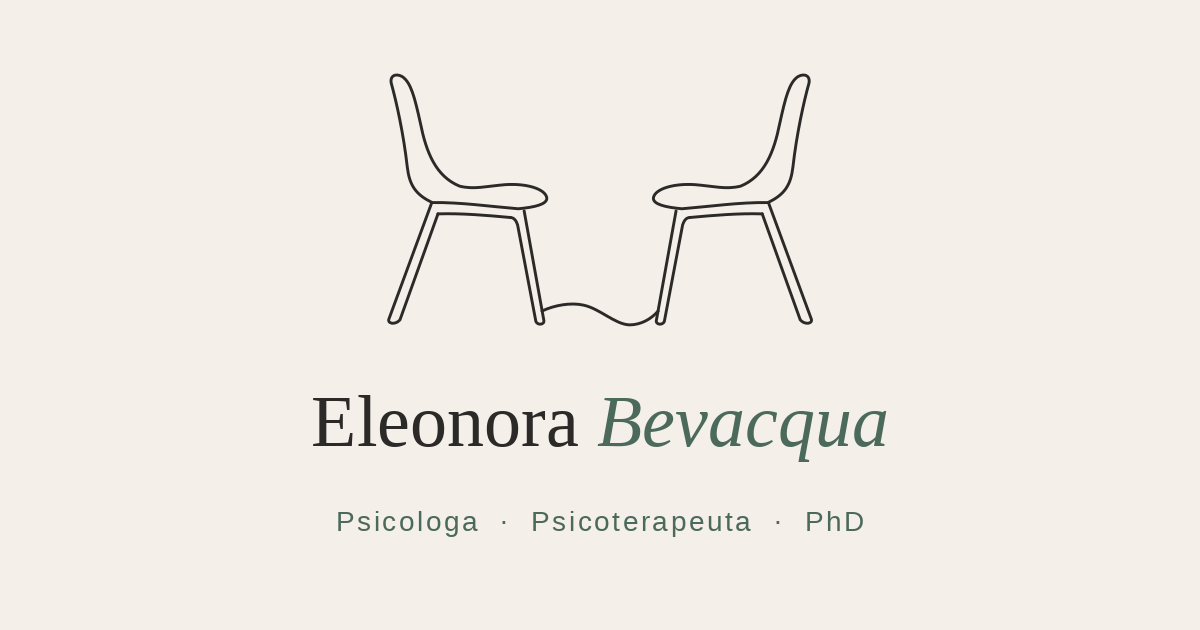
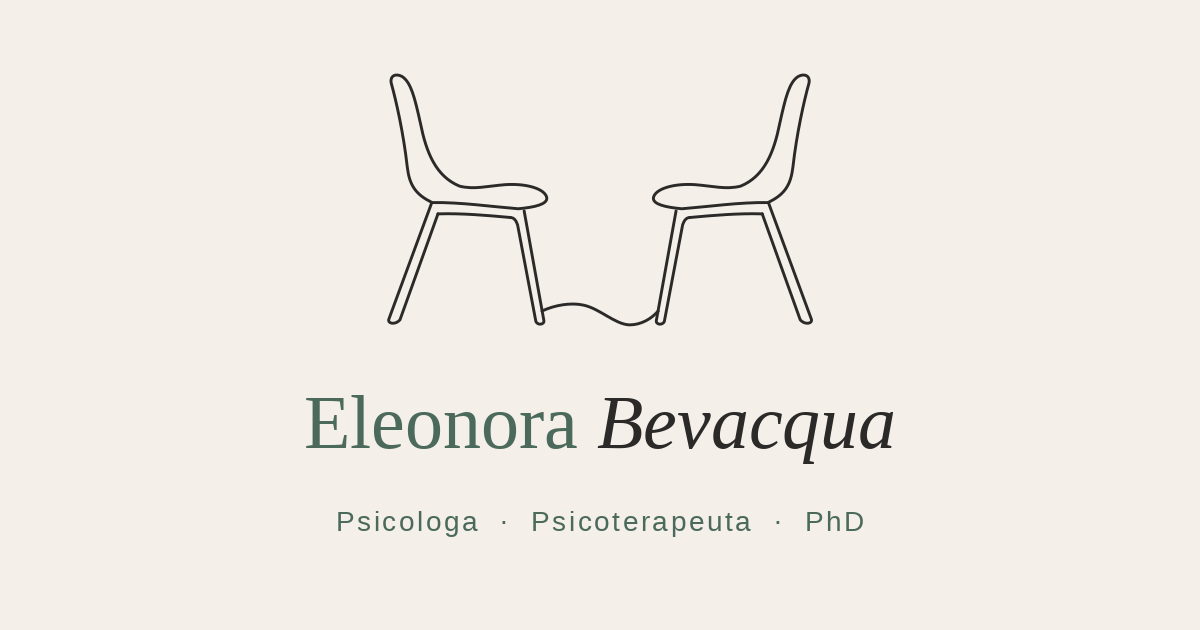
Correzioni della dottoressa: colori del nome, testo fermo, percorso riordinato, scuola SFPID, didattica, Pubblicazioni; tolti esperienze e numeri

Changed region(s): [[0.2467, 0.6032, 0.74, 0.754]]

diff --git a/index.html b/index.html
@@ -61,7 +61,7 @@
       </svg>
     </div>
     <p class="eyebrow titoli rise d1">Psicologa · Psicoterapeuta · PhD</p>
-    <h1 class="rise d2">Eleonora <span>Bevacqua</span></h1>
+    <h1 class="rise d2"><span class="nome">Eleonora</span> <span class="cognome">Bevacqua</span></h1>
     <p class="lead rise d3">Uno spazio di ascolto e di cura per affrontare i momenti di difficoltà e di cambiamento della vita.</p>
     <div class="hero-cta rise d4">
       <a class="btn primary" href="#contatti">Richiedere un primo colloquio</a>
@@ -76,25 +76,10 @@
   <div class="wrap two">
     <div class="side">
       <p class="eyebrow reveal">Chi sono</p>
-      <h2 class="reveal">Accompagnare i momenti in cui tutto cambia.</h2>
       <figure class="portrait half reveal"><div class="ph"><img src="img/eleonora.jpg" width="900" height="1198" alt="Ritratto della dott.ssa Eleonora Bevacqua" loading="lazy"></div></figure>
     </div>
     <div class="body">
-      <p class="words" id="words">Sono psicologa e psicoterapeuta a orientamento psicodinamico, specializzata presso la Scuola di Formazione in Psicoterapia Dinamica Integrata (SFPID) di Bologna, e Dottore di Ricerca in Health Promotion and Cognitive Sciences. Il mio lavoro si fonda sull'ascolto, sul tempo e sulla relazione: ogni persona trova uno spazio riservato, privo di giudizio, in cui comprendere ciò che sta vivendo.</p>
-      <div class="exp reveal">
-        <h3>Nel corso della mia esperienza professionale ho collaborato con:</h3>
-        <ul>
-          <li><b>Servizio Integrato d'Ateneo per il Supporto Psicologico (SIASP), Università degli Studi di Palermo</b>: sostegno a giovani adulti con difficoltà emotive, quali ansia, stress e depressione, spesso legate al percorso universitario e ai cambiamenti tipici di questa fase di vita.</li>
-          <li><b>Consultorio Familiare Noce, ASP di Palermo</b>: supporto psicologico a persone di diverse fasce d'età e con differenti bisogni clinici, nell'affrontare difficoltà personali, relazionali ed emotive.</li>
-          <li><b>U.O.C. di Ostetricia e Ginecologia, Ospedale Civico di Palermo</b>: screening dei fattori di rischio psicologico in gravidanza, sostegno alle donne in gravidanza e alle coppie nella transizione alla genitorialità, conduzione degli incontri di accompagnamento alla nascita.</li>
-        </ul>
-        <p>Ho conseguito il Dottorato di Ricerca presso il Dipartimento di Scienze Psicologiche, Pedagogiche, dell'Esercizio Fisico e della Formazione dell'Università degli Studi di Palermo, con una tesi dal titolo <i>«La matrice relazionale della genitorialità: vulnerabilità psichica e configurazioni affettive nel periodo perinatale»</i>. Questo percorso mi ha permesso di sviluppare una competenza specialistica nel supporto psicologico durante la gravidanza, il periodo perinatale e il post partum.</p>
-      </div>
-      <div class="facts">
-        <div class="fact reveal"><b data-count="11">0</b><span>pubblicazioni scientifiche</span></div>
-        <div class="fact reveal"><b data-count="3">0</b><span>servizi clinici pubblici</span></div>
-        <div class="fact reveal"><b data-count="2022" data-plain="1">0</b><span>ricerca sulla perinatalità</span></div>
-      </div>
+      <p class="words" id="words">Sono psicologa e psicoterapeuta a orientamento psicodinamico, specializzata presso la Scuola di Formazione di Psicoterapia ad Indirizzo Dinamico (SFPID) di Bologna, e Dottore di Ricerca in Health Promotion and Cognitive Sciences. Il mio lavoro si fonda sull'ascolto, sul tempo e sulla relazione: ogni persona trova uno spazio riservato, privo di giudizio, in cui comprendere ciò che sta vivendo.</p>
     </div>
   </div>
 </section>
@@ -178,15 +163,12 @@
     <h2 class="reveal">Formazione ed esperienza.</h2>
     <div class="tl" id="tl">
       <div class="tl-line"><i></i></div>
-      <div class="tl-item reveal"><time>dal 2026</time><h3>Progetto «Quando nasce un genitore»</h3><p>Università degli Studi di Palermo · informazione, screening, prevenzione e trattamento precoce del disagio psichico in gravidanza e della depressione post partum</p></div>
-      <div class="tl-item reveal"><time>dal 2025</time><h3>Master in Family Home Visiting</h3><p>Sapienza Università di Roma · valutazione e intervento clinico per la genitorialità a rischio nella perinatalità</p></div>
-      <div class="tl-item reveal"><time>2025</time><h3>Periodo di ricerca all'estero</h3><p>Technische Universität Dresden, Faculty of Medicine Carl Gustav Carus · nell'ambito del Dottorato di Ricerca</p></div>
-      <div class="tl-item reveal"><time>dal 2024</time><h3>Servizio Integrato d'Ateneo per il Supporto Psicologico (SIASP)</h3><p>Università degli Studi di Palermo · sostegno psicologico individuale e di gruppo a studenti universitari</p></div>
-      <div class="tl-item reveal"><time>dal 2024</time><h3>U.O.C. di Ostetricia e Ginecologia, Ospedale Civico di Palermo</h3><p>ARNAS Civico-Benfratelli e Università degli Studi di Palermo · screening del rischio psicologico in gravidanza, sostegno alla genitorialità, conduzione dei corsi di accompagnamento alla nascita</p></div>
+      <div class="tl-item reveal"><time>2026</time><h3>Specializzazione in Psicoterapia Psicodinamica</h3><p>Scuola di Formazione di Psicoterapia ad Indirizzo Dinamico (SFPID), Bologna</p></div>
+      <div class="tl-item reveal"><time>2026</time><h3>Incarico di prestazione d'opera intellettuale</h3><p>Nell'ambito del Progetto «Quando nasce un genitore - Informazione, screening e, prevenzione e trattamento precoce del disagio psichico in gravidanza e della depressione post partum» - PSN 2020, Linea progettuale 4: Prevenzione; CUP D73C23000010003 – Codice Iris: PRJ-1499</p></div>
+      <div class="tl-item reveal"><time>2026</time><h3>Dottorato di Ricerca in Health Promotion and Cognitive Sciences</h3><p>Università degli Studi di Palermo · tesi «La matrice relazionale della genitorialità: vulnerabilità psichica e configurazioni affettive nel periodo perinatale»</p></div>
+      <div class="tl-item reveal"><time>2025 – 2026</time><h3>Master in Family Home Visiting</h3><p>Sapienza Università di Roma · valutazione e intervento clinico per la genitorialità a rischio nella perinatalità</p></div>
+      <div class="tl-item reveal"><time>2024 – 2026</time><h3>Servizio Integrato d'Ateneo per il Supporto Psicologico (SIASP)</h3><p>Università degli Studi di Palermo · sostegno psicologico individuale e di gruppo a studenti universitari</p></div>
       <div class="tl-item reveal"><time>2024</time><h3>Consultorio Familiare Noce</h3><p>ASP di Palermo · supporto psicologico a persone di diverse fasce d'età</p></div>
-      <div class="tl-item reveal"><time>2023 – 2026</time><h3>Specializzazione in Psicoterapia Psicodinamica</h3><p>Scuola di Formazione in Psicoterapia Dinamica Integrata (SFPID), Bologna</p></div>
-      <div class="tl-item reveal"><time>2023</time><h3>Iscrizione all'Albo degli Psicologi</h3><p>Ordine degli Psicologi della Regione Siciliana · Sezione A · n. 11271</p></div>
-      <div class="tl-item reveal"><time>2022 – 2025</time><h3>Dottorato di Ricerca in Health Promotion and Cognitive Sciences</h3><p>Università degli Studi di Palermo · tesi «La matrice relazionale della genitorialità: vulnerabilità psichica e configurazioni affettive nel periodo perinatale», discussa nel 2026</p></div>
       <div class="tl-item reveal"><time>2021</time><h3>Laurea magistrale in Psicologia Clinica</h3><p>Università degli Studi di Palermo · 110 e lode</p></div>
       <div class="tl-item reveal"><time>2018</time><h3>Laurea triennale in Scienze e Tecniche Psicologiche</h3><p>Università degli Studi di Catania · 110 e lode</p></div>
     </div>
@@ -194,7 +176,7 @@
       <h3>Attività didattica</h3>
       <ul>
         <li><time>2025 – 2026</time><p><b>Docente a contratto</b> · «Seminario per lo sviluppo di capacità di lavoro di gruppo», Corso di Laurea in Scienze e Tecnologie Agrarie, Università degli Studi di Palermo</p></li>
-        <li><time>dal 2022</time><p><b>Assistente alla didattica</b> · insegnamento «Le competenze relazionali dello psicologo nei contesti clinici», Università degli Studi di Palermo</p></li>
+        <li><time>2022 – 2025</time><p><b>Assistente alla didattica</b> · insegnamenti «Le competenze relazionali dello psicologo nei contesti clinici» e «Psicodinamica dello sviluppo e dei setting clinici», Università degli Studi di Palermo</p></li>
       </ul>
     </div>
   </div>
@@ -204,8 +186,8 @@
 <section class="sec research" id="ricerca">
   <div class="wrap">
     <p class="eyebrow reveal">Ricerca</p>
-    <h2 class="reveal">Studiare per prendersi cura meglio.</h2>
-    <p class="sub reveal">Le pubblicazioni scientifiche, dalla più recente. I titoli con la freccia ↗ aprono l'articolo originale.</p>
+    <h2 class="reveal">Pubblicazioni</h2>
+    <p class="sub reveal">I titoli con la freccia ↗ aprono l'articolo originale.</p>
     <ul class="pubs">
       <li class="reveal"><a href="https://doi.org/10.3389/fpsyg.2026.1899047" target="_blank" rel="noopener"><span class="y">2026</span><span class="t">Past wounds, present bonds, future mothers: item-level analysis of perinatal risk profiles</span><span class="j">Frontiers in Psychology</span></a></li>
       <li class="reveal"><a href="https://doi.org/10.1007/s12144-025-08932-3" target="_blank" rel="noopener"><span class="y">2026</span><span class="t">Exploring ambivalent sexism in the younger generation. Associations with childhood maltreatment experiences among Italian college students</span><span class="j">Current Psychology</span></a></li>

diff --git a/style.css b/style.css
@@ -69,7 +69,8 @@ h1,h2,h3{font-family:var(--serif);font-weight:500;line-height:1.15;letter-spacin
 .logo-svg .ln{transition:stroke .5s}
 .eyebrow{font-size:13px;letter-spacing:.2em;text-transform:uppercase;color:var(--sage-deep);margin-bottom:14px}
 .hero h1{font-size:clamp(40px,7.4vw,84px);margin-bottom:18px}
-.hero h1 span{font-style:italic;color:var(--sage-deep)}
+.hero h1 .nome{color:var(--sage-deep)}
+.hero h1 .cognome{font-style:italic;color:var(--ink)}
 .lead{font-size:clamp(17px,2vw,21px);color:var(--mute);max-width:600px;margin:0 auto 32px}
 .hero-cta{display:flex;gap:14px;justify-content:center;flex-wrap:wrap}
 .btn{display:inline-flex;align-items:center;justify-content:center;gap:8px;padding:14px 26px;border-radius:99px;text-decoration:none;font-size:16px;border:1.5px solid transparent;transition:transform .25s var(--ease),background .25s,color .25s,border-color .25s,box-shadow .25s;cursor:pointer;text-align:center}
@@ -230,6 +231,10 @@ h1,h2,h3{font-family:var(--serif);font-weight:500;line-height:1.15;letter-spacin
 /* titoli professionali: niente maiuscolo forzato, PhD resta PhD */
 .titoli{text-transform:none!important;letter-spacing:.06em!important}
 .eyebrow.titoli{font-size:16px}
+
+/* testo fermo (richiesta della dottoressa 24/11): niente comparsa del testo */
+.rise,.reveal{opacity:1!important;transform:none!important;transition:none!important}
+.words .w{opacity:1!important}
 
 /* reveal */
 .reveal{opacity:0;transform:translateY(34px);transition:opacity .9s ease,transform .9s var(--ease)}
